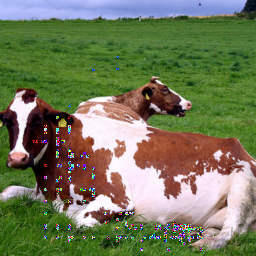
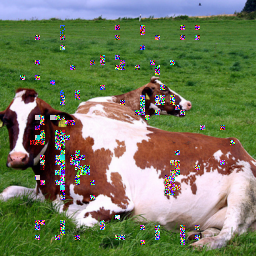
Remove padding

diff --git a/attacks/locsearchadv/method.py b/attacks/locsearchadv/method.py
@@ -4,6 +4,7 @@ import torch.nn.functional as F
 import numpy as np
 import copy
 import torchvision.transforms as transforms
+import math
 
 from .. import AttackMethod
 
@@ -38,17 +39,26 @@ class LocSearchAdv(AttackMethod):
         print("Top pred prob: {}".format(top[0][0].item()))
         return ind[0][:k]
 
-    def pert(self, I, p, x, y, grid_size):
+    def pert(self, I, p, pts_to_pert):
         img = copy.deepcopy(I)
-        
-        start_x = x * grid_size
-        start_y = y * grid_size
-        pts_to_pert = [(start_x+i,start_y+j) for i in range (grid_size) for j in range (grid_size)]
-        
         for x, y in pts_to_pert:
             sign = torch.sign((img[:, :, x, y]))
             img[:, :, x, y] = p * sign
         return img
+    
+    def get_pic_coordinates(self, grid_x, grid_y, grid_size, x_dim, y_dim):
+        start_x = grid_x * grid_size
+        start_y = grid_y * grid_size
+        org_pts = [
+            (start_x+i,start_y+j) 
+            for i in range (grid_size) 
+            for j in range (grid_size)
+        ]
+        
+        org_pts = [ 
+            (x, y) for x, y in org_pts if 0 <= x < x_dim and 0 <= y < y_dim
+        ]
+        return org_pts
 
     def do_perturbation(self, input_tensor, true_label_idx) -> AttackMethod:
         ## Get hyperparam
@@ -69,14 +79,7 @@ class LocSearchAdv(AttackMethod):
         I = self.rescale(input_tensor, MODEL_LB, MODEL_UB, self.LB, self.UB)
         (_, color_channel, x_dim, y_dim) = I.shape
         
-        ## For padding
-        assert x_dim == y_dim
-        
-        padding_val = x_dim % grid_size
-        ## Add padding to the image
-        padded_image = F.pad(I, (padding_val, padding_val, padding_val, padding_val), mode='constant', value=0)
-        
-        grid_dim = int((x_dim + 2 * padding_val) / grid_size)
+        grid_dim = math.ceil(x_dim / grid_size)
         num_pixel = int(grid_dim*grid_dim*self.init_picked_percentage)
         
         print("Grid size: {}".format(grid_dim))
@@ -84,16 +87,16 @@ class LocSearchAdv(AttackMethod):
         ## Randomly pick pixels to start
         P_X, P_Y = np.random.choice(range(grid_dim), num_pixel), np.random.choice(range(grid_dim), num_pixel)
         # copying the image
-        I_hat = copy.deepcopy(padded_image)
+        I_hat = copy.deepcopy(I)
         
         for iter in range (R):
             print(iter)
             ## Compute function g
             scores = []
-            for i in range(len(P_X)):    
-                img = self.pert(I_hat, p, P_X[i], P_Y[i], grid_size)
+            for i in range(len(P_X)):
+                pts_to_pert = self.get_pic_coordinates(P_X[i], P_Y[i], grid_size, x_dim, y_dim)    
+                img = self.pert(I_hat, p, pts_to_pert)
                 img = self.rescale(img, self.LB, self.UB, MODEL_LB, MODEL_UB)
-                img = img[:, :, padding_val: -padding_val , padding_val: -padding_val]
 
                 pred = self.model.predict(img)
                 score = nn.Softmax(dim=1)(pred)[0, true_label_idx].item()
@@ -112,17 +115,14 @@ class LocSearchAdv(AttackMethod):
             
             print(avg, p, sep= "   ")
             
-            for i in range (t): 
-                start_x = P_XI[i] * grid_size
-                start_y = P_YI[i] * grid_size
-                pts_to_pert = [(start_x+i,start_y+j) for i in range (grid_size) for j in range (grid_size)]
+            for i in range (t):                 
+                pts_to_pert = self.get_pic_coordinates(P_XI[i], P_YI[i], grid_size, x_dim, y_dim)    
                 
                 for x, y in pts_to_pert:
                     for j in range (color_channel):
                         I_hat[:, j, x, y] = self.cyclic(I_hat, r, j, x, y) 
 
             img_I_hat = self.rescale(I_hat, self.LB, self.UB, MODEL_LB, MODEL_UB)
-            img_I_hat = img_I_hat[:, :, padding_val: -padding_val , padding_val: -padding_val]
             pred_I_hat = self.model.predict(img_I_hat)
             
             self.logit = pred_I_hat

diff --git a/main.py b/main.py
@@ -20,9 +20,9 @@ def generate_image_data():
     '''
     url = "http://images.cocodataset.org/val2017/000000039769.jpg"
     # This is a fake image getter for testing
-    yield "pig.jpg", Image.open(f"{IMAGE_PATH}/pig.jpg"), 341
-    yield "cat.jpg", Image.open(requests.get(url, stream=True).raw), 282
-    yield "milo.jpg",  Image.open(f"{IMAGE_PATH}/milo.jpg"), 281
+    # yield "pig.jpg", Image.open(f"{IMAGE_PATH}/pig.jpg"), 341
+    # yield "cat.jpg", Image.open(requests.get(url, stream=True).raw), 282
+    # yield "milo.jpg",  Image.open(f"{IMAGE_PATH}/milo.jpg"), 281
     yield "ox.jpg", Image.open(f"{IMAGE_PATH}/ox.jpg"), 345
 
 def create_dir(dir):
